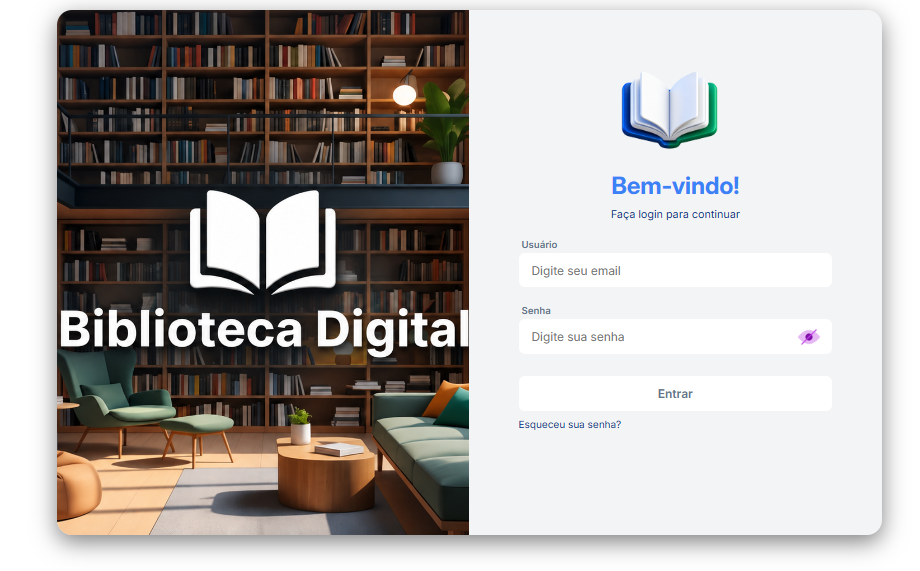
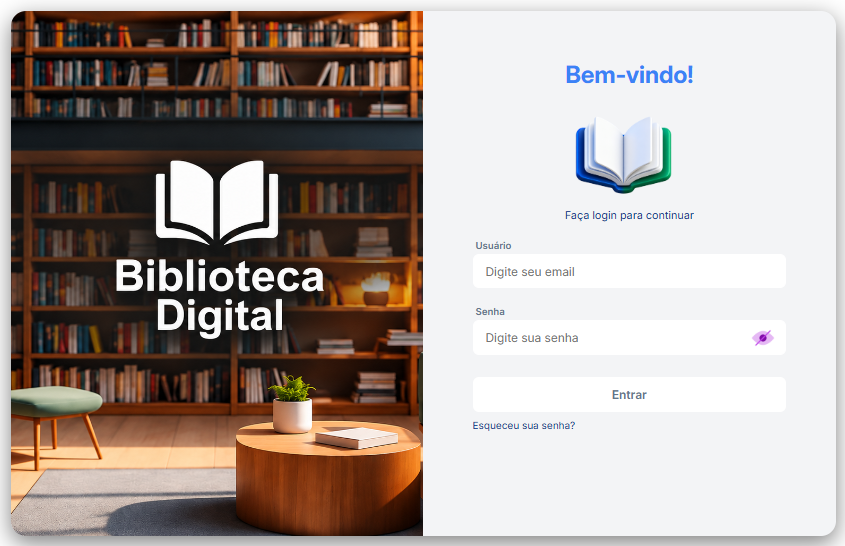
doc: Modificado documentação Readme e img

diff --git a/README.md b/README.md
@@ -103,31 +103,31 @@ Por ser uma aplicação web estática baseada em HTML, CSS e JavaScript puro (co
 ### Login
 
 📷 <p align="center">
-  <img src="assets/images-readme/TelaLogin.PNG" alt="Tela Login" width="400">
+  <img src="assets/images-readme/TelaLogin.PNG" alt="Tela Login" width="500">
 </p>
 
 ### Dashboard
 
 📷 <p align="center">
-  <img src="assets/images-readme/TelaDashboard.PNG" alt="Tela Dashboard" width="400">
+  <img src="assets/images-readme/TelaDashboard.PNG" alt="Tela Dashboard" width="500">
 </p>
 
 ### Cadastro de Usuários
 
 📷 <p align="center">
-  <img src="assets/images-readme/TelaCadUsuario.PNG" alt="Tela cadastro" width="400">
+  <img src="assets/images-readme/TelaCadUsuario.PNG" alt="Tela cadastro" width="500">
 </p>
 
 ### Cadastro de Livros
 
 📷 <p align="center">
-  <img src="assets/images-readme/TelaCadLivro.PNG" alt="Tela cadastro" width="400">
+  <img src="assets/images-readme/TelaCadLivro.PNG" alt="Tela cadastro" width="500">
 </p>
 
 ### Listar Livros
 
 📷 <p align="center">
-  <img src="assets/images-readme/TelaListarLivros.PNG" alt="Tela cadastro" width="400">
+  <img src="assets/images-readme/TelaListarLivros.PNG" alt="Tela cadastro" width="500">
 </p>
 
 ## 📱 Prints – Mobile
@@ -135,31 +135,31 @@ Por ser uma aplicação web estática baseada em HTML, CSS e JavaScript puro (co
 ### Login
 
 📷 <p align="center">
-  <img src="assets/images-readme/TelaLoginMobile.PNG" alt="Tela login-mobile" width="300">
+  <img src="assets/images-readme/TelaLoginMobile.PNG" alt="Tela login-mobile" width="350">
 </p>
 
 ### Dashboard
 
 📷 <p align="center">
-  <img src="assets/images-readme/TelaResponsiva.PNG" alt="Tela Dashboard-Mobile" width="300">
+  <img src="assets/images-readme/TelaResponsiva.PNG" alt="Tela Dashboard-Mobile" width="350">
 </p>
 
 ### Cadastro de Usuários
 
 📷 <p align="center">
-  <img src="assets/images-readme/TelaRespCadUser.PNG" alt="Tela cadastro-mobile" width="300">
+  <img src="assets/images-readme/TelaRespCadUser.PNG" alt="Tela cadastro-mobile" width="350">
 </p>
 
 ### Cadastro de Livros
 
 📷 <p align="center">
-  <img src="assets/images-readme/TelaResponCadLivro.PNG" alt="Tela cadastro" width="400">
+  <img src="assets/images-readme/TelaResponCadLivro.PNG" alt="Tela cadastro" width="350">
 </p>
 
 ### Listar Livros
 
 📷 <p align="center">
-  <img src="assets/images-readme/TelaRespTabela.PNG" alt="Tela cadastro" width="400">
+  <img src="assets/images-readme/TelaRespTabela.PNG" alt="Tela cadastro" width="350">
 </p>
 
 ---
